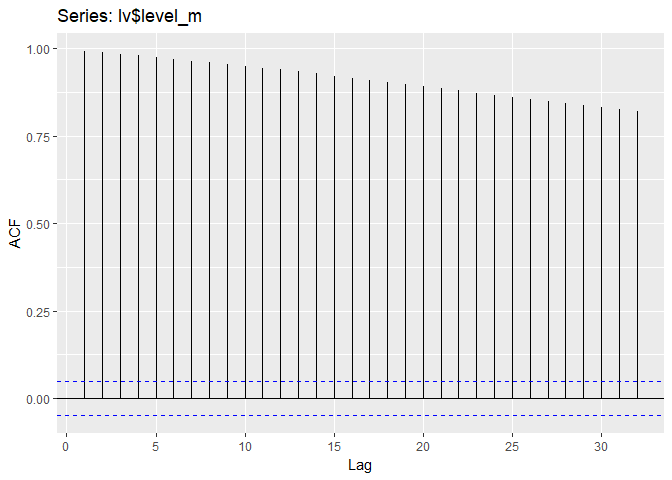
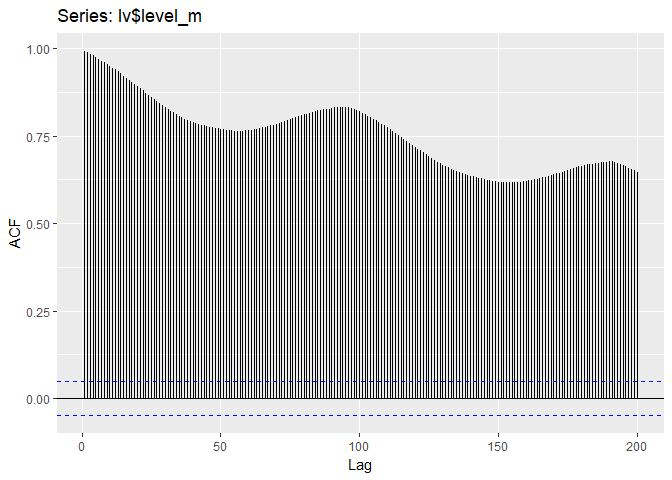
set up work for tomorrow

diff --git a/ts_test.md b/ts_test.md
@@ -11,7 +11,9 @@ To do:
 
 <https://rpubs.com/hrbrmstr/time-series-machinations>
 
-<https://datascienceplus.com/time-series-analysis-using-arima-model-in-r/>
+<https://datascienceplus.com/time-series-analysis-using-arima-model-in-r/> <https://people.duke.edu/~rnau/411arim2.htm>
+
+<https://www.r-bloggers.com/time-series-analysis-building-a-model-on-non-stationary-time-series/> <https://otexts.com/fpp2/stationarity.html>
 
 ``` r
 library(tidyverse)
@@ -88,7 +90,7 @@ ggAcf(series)
 ![](ts_test_files/figure-markdown_github/unnamed-chunk-6-1.png)
 
 ``` r
-ggAcf(lv$level_m)
+ggAcf(lv$level_m, lag.max=200)
 ```
 
 ![](ts_test_files/figure-markdown_github/unnamed-chunk-6-2.png)
